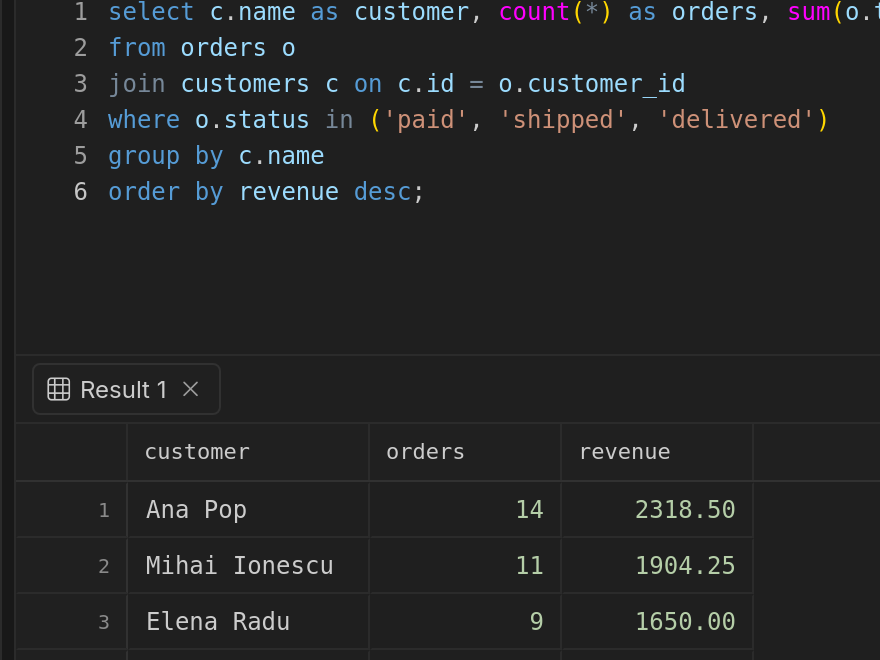
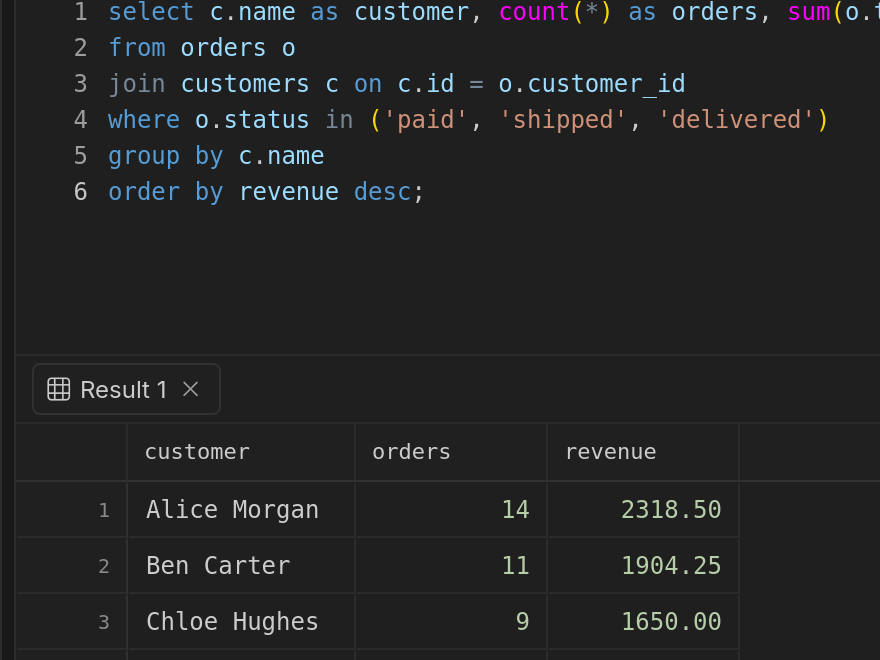
fix(screenshots): English names in Studio shots
Claude-Session: https://claude.ai/code/session_011qBh8DePVSuwuKh8Nb3N3S

diff --git a/apps/kira-studio/tests/screenshots/studio.shot.ts b/apps/kira-studio/tests/screenshots/studio.shot.ts
@@ -65,7 +65,7 @@ test('studio data grid', async ({ relaunch, consoleErrors }) => {
   await expect(grid).toBeVisible();
   const rows = page.locator('[data-testid="grid-row"]');
   await expect(rows.first()).toBeVisible({ timeout: 15_000 });
-  await expect(grid).toContainText('Ana Pop');
+  await expect(grid).toContainText('Alice Morgan');
   await rows.nth(2).click();
 
   await captureShot(page, { id: 'studio-data-grid', detail: { x: 265, y: 130 }, consoleErrors });
@@ -88,12 +88,12 @@ const RESULT_PAGE: LogicalPage = {
     col('revenue', 'numeric', 'number'),
   ],
   rows: [
-    ['Ana Pop', '14', '2318.50'],
-    ['Mihai Ionescu', '11', '1904.25'],
-    ['Elena Radu', '9', '1650.00'],
-    ['Andrei Dumitru', '8', '1388.75'],
-    ['Ioana Stan', '6', '972.40'],
-    ['Radu Marin', '5', '815.10'],
+    ['Alice Morgan', '14', '2318.50'],
+    ['Ben Carter', '11', '1904.25'],
+    ['Chloe Hughes', '9', '1650.00'],
+    ['Daniel Brooks', '8', '1388.75'],
+    ['Emma Wright', '6', '972.40'],
+    ['Oliver Grant', '5', '815.10'],
   ],
   position: {
     offset: 0,
@@ -130,7 +130,7 @@ test('studio sql console', async ({ relaunch, consoleErrors }) => {
   await typeInto(view, page, QUERY, { paste: true });
   await expect(view.locator('.view-lines')).toContainText('order by revenue desc');
   await page.click('[data-testid="console-run-all"]');
-  await expect(view.locator('[data-testid="console-result-grid"]')).toContainText('Ana Pop');
+  await expect(view.locator('[data-testid="console-result-grid"]')).toContainText('Alice Morgan');
 
   // Monaco's caret blink is JS-driven: blur the editor so two runs match.
   await page.evaluate(() => (document.activeElement as HTMLElement | null)?.blur());
@@ -143,7 +143,7 @@ test('studio api request', async ({ relaunch, consoleErrors }) => {
   const body = JSON.stringify(
     {
       id: 4217,
-      customer: 'Ana Pop',
+      customer: 'Alice Morgan',
       status: 'shipped',
       items: [
         { sku: 'KB-104', qty: 1, price: 89.9 },
@@ -179,7 +179,7 @@ test('studio api request', async ({ relaunch, consoleErrors }) => {
   await page.fill('[data-testid="http-url"]', 'https://api.acme.example/v1/orders/4217');
   await page.click('[data-testid="http-send"]');
   await expect(page.locator('[data-testid="http-status"]')).toHaveText('200 OK');
-  await expect(page.locator('[data-testid="http-request-view"]')).toContainText('Ana Pop');
+  await expect(page.locator('[data-testid="http-request-view"]')).toContainText('Alice Morgan');
   // Monaco tokenizes JSON asynchronously; an uncoloured body would differ between runs.
   await expect
     .poll(() =>

diff --git a/apps/kira-studio/tests/screenshots/support/acme.ts b/apps/kira-studio/tests/screenshots/support/acme.ts
@@ -61,14 +61,14 @@ export const ORDER_COLUMNS: ColumnDescriptor[] = [
 ];
 
 const CUSTOMERS = [
-  'Ana Pop',
-  'Mihai Ionescu',
-  'Elena Radu',
-  'Andrei Dumitru',
-  'Ioana Stan',
-  'Radu Marin',
-  'Maria Toma',
-  'Paul Vasile',
+  'Alice Morgan',
+  'Ben Carter',
+  'Chloe Hughes',
+  'Daniel Brooks',
+  'Emma Wright',
+  'Oliver Grant',
+  'Grace Turner',
+  'Henry Walsh',
 ];
 const STATUSES = ['paid', 'shipped', 'delivered', 'pending', 'delivered', 'shipped'];
 
